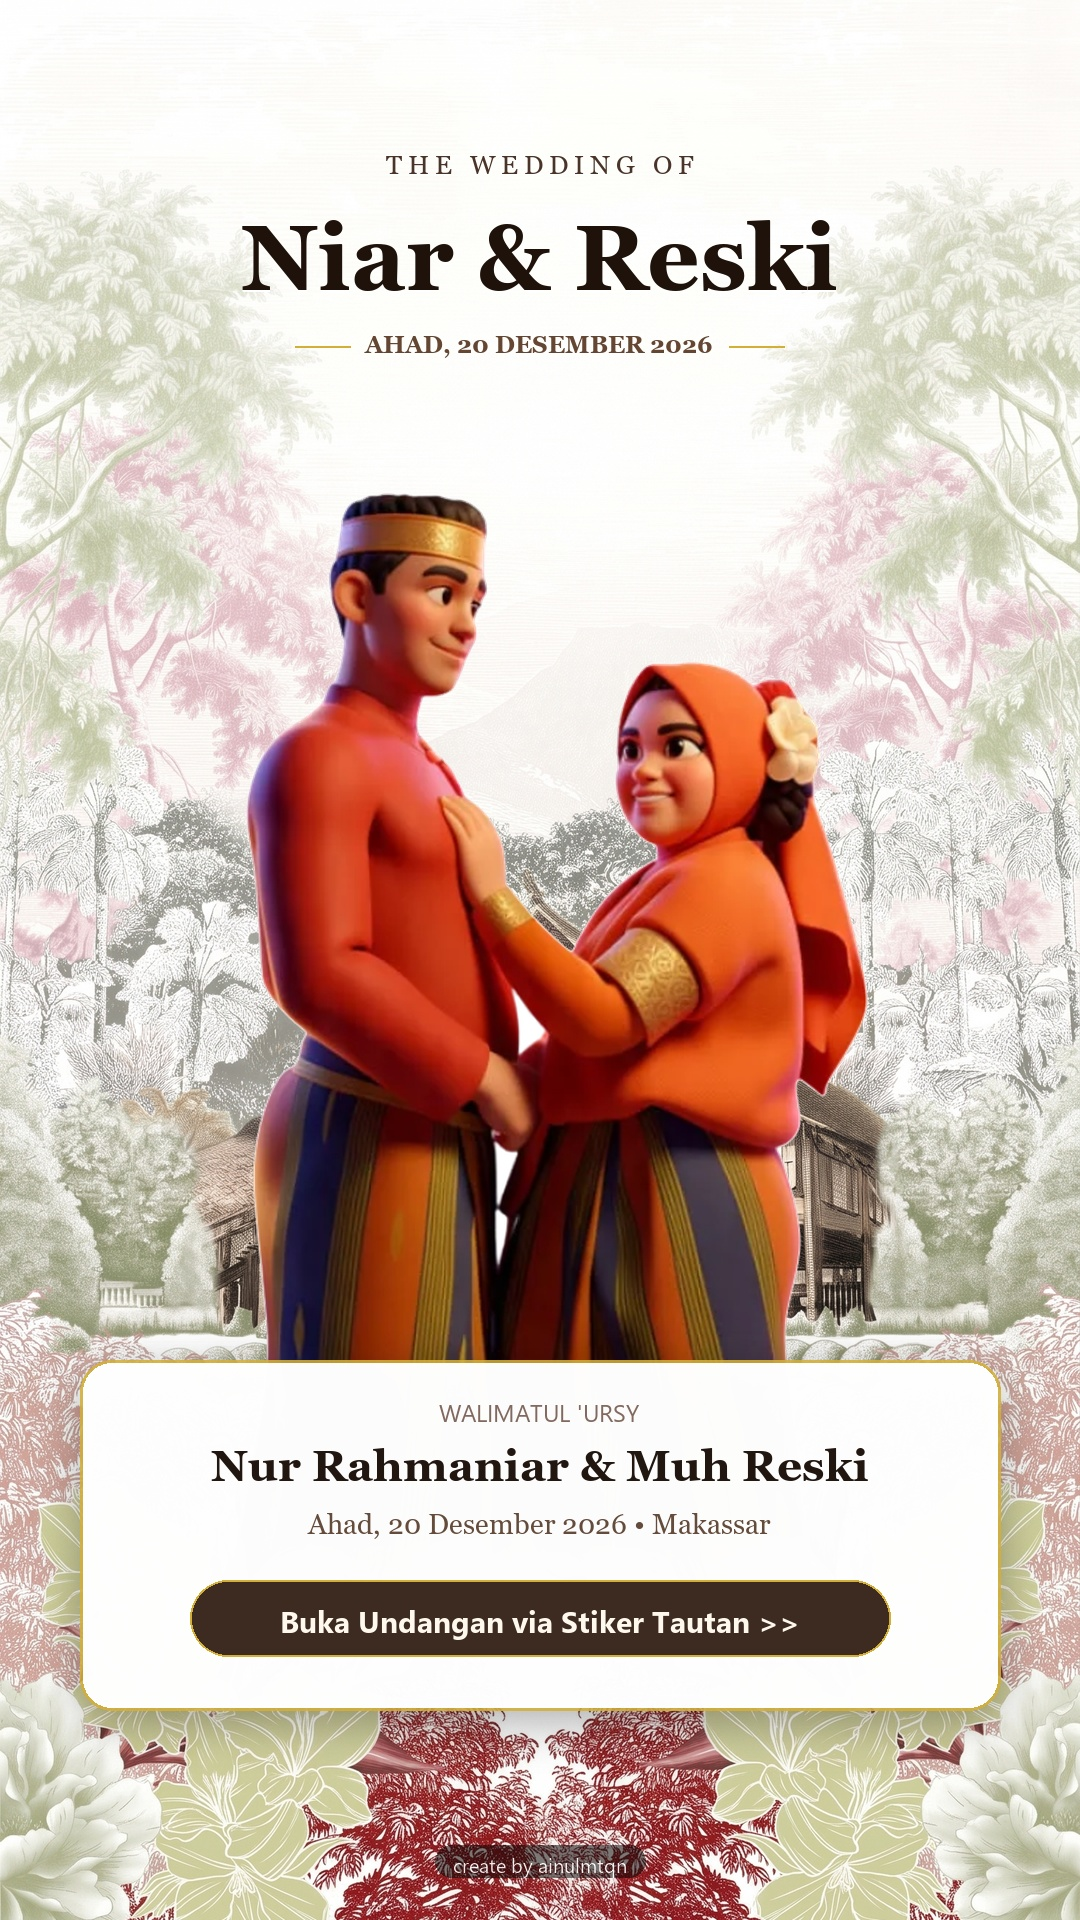
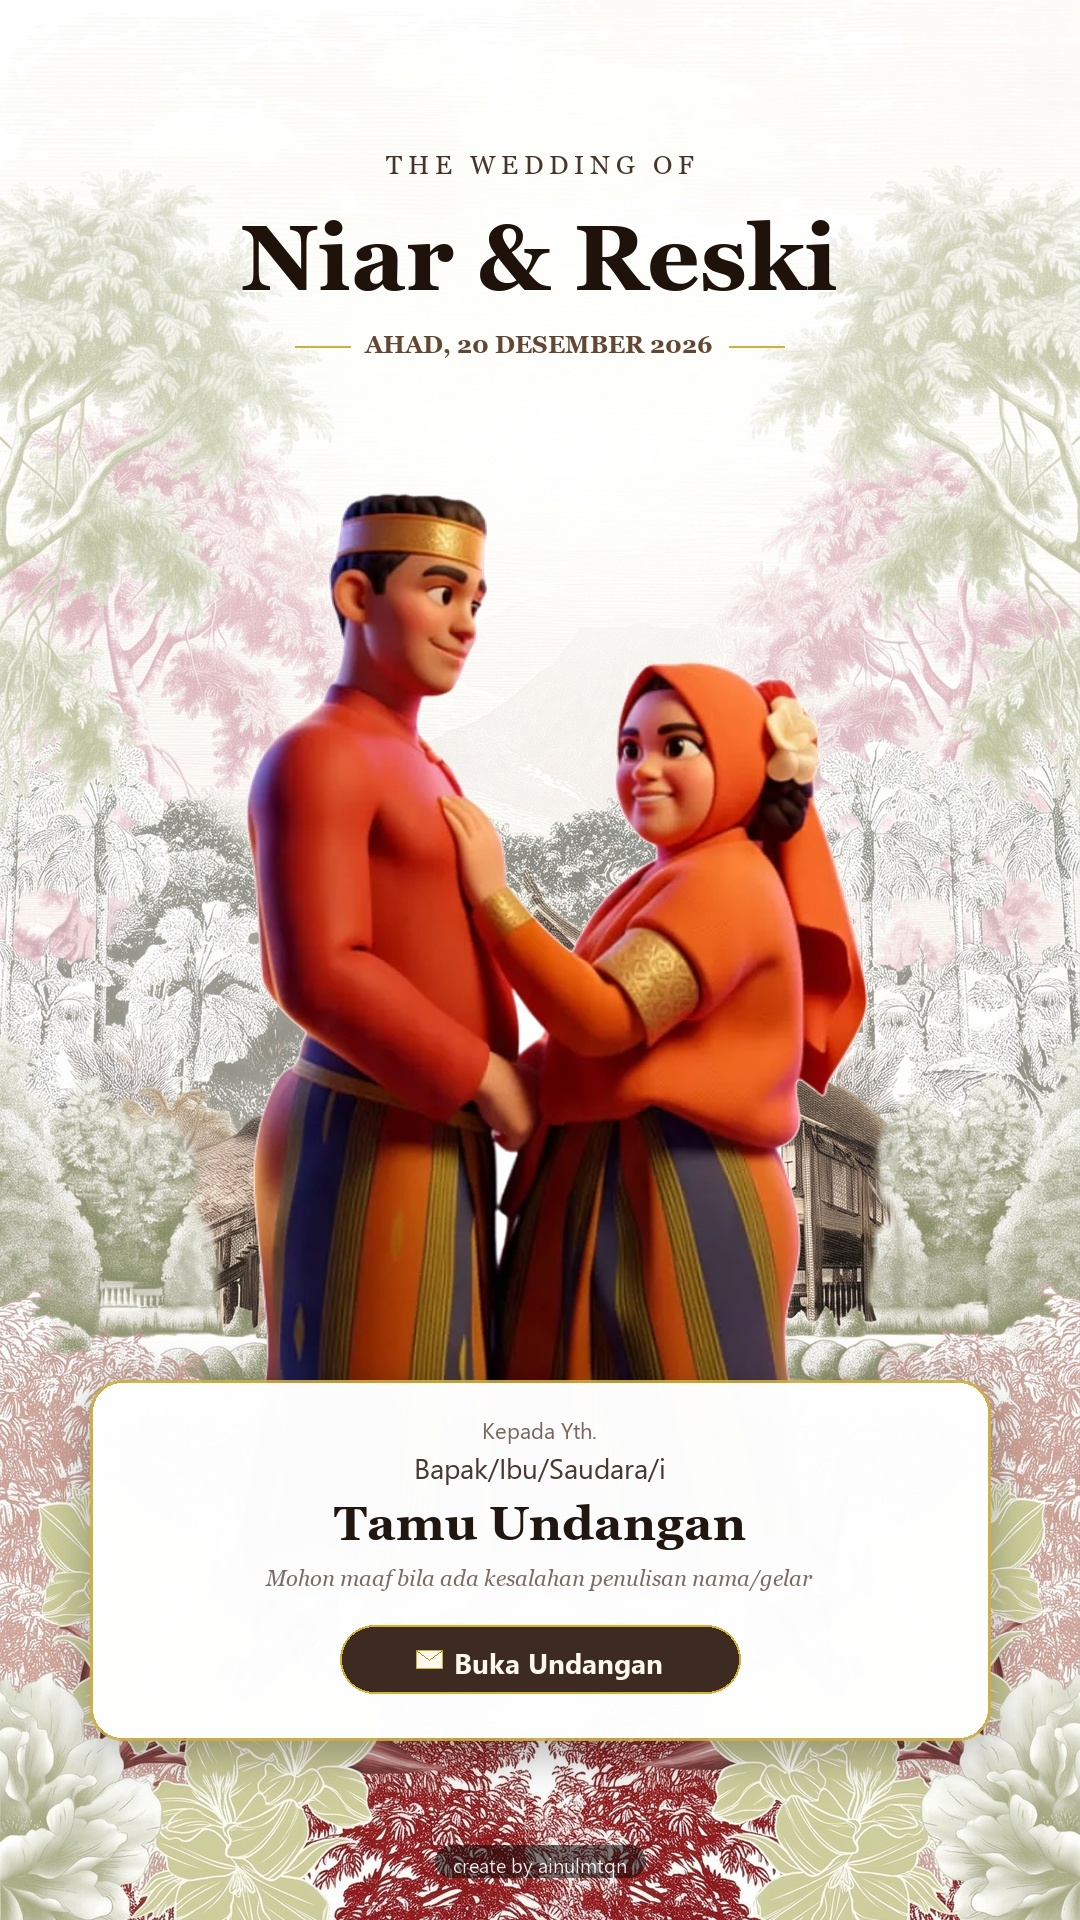
Sempurnakan Share Kebahagiaan: hilangkan frame & kamera, gunakan gambar sampul, direct ke story IG

Changed region(s): [[0.0611, 0.6875, 0.9472, 0.9375]]

diff --git a/script.js b/script.js
@@ -292,7 +292,7 @@ function initApp() {
   });
 
   // ========================================================
-  // INSTAGRAM STORY SHARE & WEBSHARE API HANDLER
+  // INSTAGRAM STORY DIRECT DEEP LINK & COVER SHARE
   // ========================================================
   let toastTimer = null;
   function showStoryToast(message, duration = 4000) {
@@ -305,93 +305,74 @@ function initApp() {
     }, duration);
   }
 
-  let cachedStoryBlob = null;
   let isSharingStory = false;
 
   async function handleShareStory() {
     if (isSharingStory) return;
     isSharingStory = true;
 
-    const originalBtnContent = btnShareStory ? btnShareStory.innerHTML : '';
     if (btnShareStory) {
       btnShareStory.classList.add('is-loading');
-      btnShareStory.innerHTML = '<span class="btn-story-icon">⏳</span><span class="btn-story-text">Menyiapkan Story...</span>';
+      btnShareStory.innerHTML = '<span class="btn-story-text">Membuka Story IG...</span>';
     }
 
     try {
-      // 1. Ambil aset gambar Instagram Story 9:16
-      if (!cachedStoryBlob) {
-        const response = await fetch('assets/story_cover.jpg');
-        if (!response.ok) throw new Error('Failed to load story cover image');
-        cachedStoryBlob = await response.blob();
+      // 1. Download file gambar sampul 9:16 ke galeri perangkat
+      const downloadLink = document.createElement('a');
+      downloadLink.href = 'assets/story_cover.jpg';
+      downloadLink.download = 'Sampul-Undangan-Niar-Reski.jpg';
+      document.body.appendChild(downloadLink);
+      downloadLink.click();
+      setTimeout(() => {
+        if (downloadLink.parentNode) {
+          downloadLink.parentNode.removeChild(downloadLink);
+        }
+      }, 500);
+
+      // 2. Salin URL undangan ke clipboard untuk stiker tautan IG Story
+      if (navigator.clipboard && navigator.clipboard.writeText) {
+        try {
+          await navigator.clipboard.writeText(window.location.href);
+        } catch (clipErr) {
+          console.warn('Clipboard write warning:', clipErr);
+        }
       }
 
-      const file = new File([cachedStoryBlob], 'The-Wedding-Niar-Reski-Story.jpg', { type: 'image/jpeg' });
+      // 3. Tampilkan toast pemandu
+      showStoryToast('✨ Membuka Story IG... Gambar sampul tersimpan & link disalin!');
 
-      // 2. Gunakan Web Share API jika mendukung file share (iOS Safari, Android Chrome)
-      if (navigator.canShare && navigator.canShare({ files: [file] })) {
-        try {
-          await navigator.share({
-            files: [file],
-            title: 'The Wedding of Niar & Reski',
-            text: 'Turut berbahagia atas pernikahan Niar & Reski ✨ Kunjungi undangan:',
-            url: window.location.href
-          });
-          showStoryToast('✨ Silakan pilih Instagram Stories atau aplikasi tujuan!');
-        } catch (shareErr) {
-          if (shareErr.name !== 'AbortError') {
-            await triggerStoryFallback(cachedStoryBlob);
-          }
-        }
+      // 4. Langsung buka Story Instagram melalui Deep Link
+      const ua = navigator.userAgent || navigator.vendor || window.opera || '';
+      const isIOS = /iPad|iPhone|iPod/.test(ua) && !window.MSStream;
+      const isAndroid = /android/i.test(ua);
+
+      if (isIOS) {
+        // iOS: Langsung buka kamera Story Instagram
+        window.location.href = 'instagram://story-camera';
+        setTimeout(() => {
+          window.location.href = 'instagram://camera';
+        }, 1200);
+      } else if (isAndroid) {
+        // Android: Intent langsung ke Story Instagram
+        window.location.href = 'intent://story-camera#Intent;package=com.instagram.android;scheme=instagram;end;';
+        setTimeout(() => {
+          window.location.href = 'intent://#Intent;package=com.instagram.android;end;';
+        }, 1200);
       } else {
-        // Fallback untuk desktop atau browser tanpa Web Share API
-        await triggerStoryFallback(cachedStoryBlob);
+        // Desktop / Browser Web: Buka Instagram di tab baru
+        window.open('https://www.instagram.com/', '_blank');
       }
     } catch (err) {
       console.error('Share story error:', err);
-      showStoryToast('Gagal memproses gambar story. Silakan coba lagi.');
+      showStoryToast('Gagal membuka Instagram. Gambar sampul telah diunduh.');
     } finally {
-      if (btnShareStory) {
-        btnShareStory.classList.remove('is-loading');
-        btnShareStory.innerHTML = originalBtnContent;
-      }
-      isSharingStory = false;
-    }
-  }
-
-  async function triggerStoryFallback(blob) {
-    // 1. Download file gambar story 9:16
-    try {
-      const url = URL.createObjectURL(blob);
-      const a = document.createElement('a');
-      a.href = url;
-      a.download = 'The-Wedding-Niar-Reski-Story.jpg';
-      document.body.appendChild(a);
-      a.click();
       setTimeout(() => {
-        document.body.removeChild(a);
-        URL.revokeObjectURL(url);
-      }, 600);
-    } catch (e) {
-      console.warn('Auto download error', e);
-    }
-
-    // 2. Salin URL undangan ke clipboard untuk stiker link IG
-    let copied = false;
-    if (navigator.clipboard && navigator.clipboard.writeText) {
-      try {
-        await navigator.clipboard.writeText(window.location.href);
-        copied = true;
-      } catch (e) {
-        console.warn('Clipboard write failed', e);
-      }
-    }
-
-    // 3. Beri notifikasi toast yang informatif
-    if (copied) {
-      showStoryToast('📸 Gambar Story tersimpan di Galeri & Link undangan disalin untuk stiker IG!');
-    } else {
-      showStoryToast('📸 Gambar Story berhasil diunduh ke galeri!');
+        if (btnShareStory) {
+          btnShareStory.classList.remove('is-loading');
+          btnShareStory.innerHTML = '<span class="btn-story-text">Share Kebahagiaan</span>';
+        }
+        isSharingStory = false;
+      }, 1600);
     }
   }
 

diff --git a/style.css b/style.css
@@ -638,57 +638,50 @@ body {
   width: 100%;
 }
 
-/* Button: Share Kebahagiaan (Instagram Story & Share Sheet) */
+/* Button: Share Kebahagiaan (Frameless Elegant Text Link) */
 .btn-share-story {
   width: auto;
-  min-width: 135px;
-  max-width: 165px;
-  margin: 0 auto;
-  padding: 5px 12px;
-  background: rgba(255, 255, 255, 0.95);
-  border: 1px solid rgba(212, 175, 55, 0.75);
-  border-radius: 20px;
-  color: #4a3429;
+  margin: 3px auto 0 auto;
+  padding: 4px 8px;
+  background: transparent !important;
+  border: none !important;
+  border-radius: 0 !important;
+  box-shadow: none !important;
+  outline: none;
+  color: #7d6b62;
   font-family: var(--font-sans);
-  font-size: 10px;
-  font-weight: 600;
+  font-size: 11px;
+  font-weight: 500;
   letter-spacing: 0.04em;
   cursor: pointer;
   display: inline-flex;
-  flex-direction: row !important;
-  flex-wrap: nowrap !important;
   align-items: center;
   justify-content: center;
   white-space: nowrap !important;
-  line-height: 1;
-  gap: 5px;
-  position: relative;
-  box-shadow: 0 2px 8px rgba(60, 42, 32, 0.08);
-  transition: all 0.25s ease;
+  line-height: 1.2;
+  text-decoration: underline;
+  text-underline-offset: 3px;
+  text-decoration-color: rgba(212, 175, 55, 0.45);
+  transition: color 0.25s ease, text-decoration-color 0.25s ease, opacity 0.2s ease;
 }
 
 .btn-share-story:hover {
-  background: #fffdf9;
-  border-color: #d4af37;
-  color: #1f120a;
-  transform: translateY(-1px);
-  box-shadow: 0 4px 12px rgba(212, 175, 55, 0.25);
+  background: transparent !important;
+  border: none !important;
+  box-shadow: none !important;
+  color: #3d2b22;
+  text-decoration-color: #d4af37;
+  transform: none !important;
 }
 
 .btn-share-story:active {
-  transform: scale(0.97);
+  opacity: 0.65;
+  transform: none !important;
 }
 
 .btn-share-story.is-loading {
   pointer-events: none;
-  opacity: 0.7;
-}
-
-.btn-story-icon {
-  font-size: 11px;
-  display: inline-flex;
-  align-items: center;
-  line-height: 1;
+  opacity: 0.6;
 }
 
 .btn-story-text {

diff --git a/index.html b/index.html
@@ -13,7 +13,7 @@
   <link rel="preconnect" href="https://fonts.gstatic.com" crossorigin>
   <link href="https://fonts.googleapis.com/css2?family=Alex+Brush&family=Cinzel:wght@400;600;700;900&family=Cormorant+Garamond:ital,wght@0,300;0,400;0,600;0,700;1,400&family=Montserrat:wght@300;400;500;600&family=Playfair+Display:ital,wght@0,400;0,600;0,700;1,400&display=swap" rel="stylesheet">
   
-  <link rel="stylesheet" href="style.css?v=20261126_0100">
+  <link rel="stylesheet" href="style.css?v=20261126_0110">
 </head>
 <body>
 
@@ -94,7 +94,6 @@
             </button>
             
             <button class="btn-share-story" id="btnShareStory" type="button" aria-label="Share Kebahagiaan ke Instagram Story">
-              <span class="btn-story-icon">📸</span>
               <span class="btn-story-text">Share Kebahagiaan</span>
             </button>
           </div>
@@ -361,6 +360,6 @@
   <audio id="bgMusicAudio" src="music.mp3" preload="auto" loop autoplay playsinline webkit-playsinline></audio>
 
   <!-- Main Cinematic Orchestrator -->
-  <script src="script.js?v=20261126_0100"></script>
+  <script src="script.js?v=20261126_0110"></script>
 </body>
 </html>
